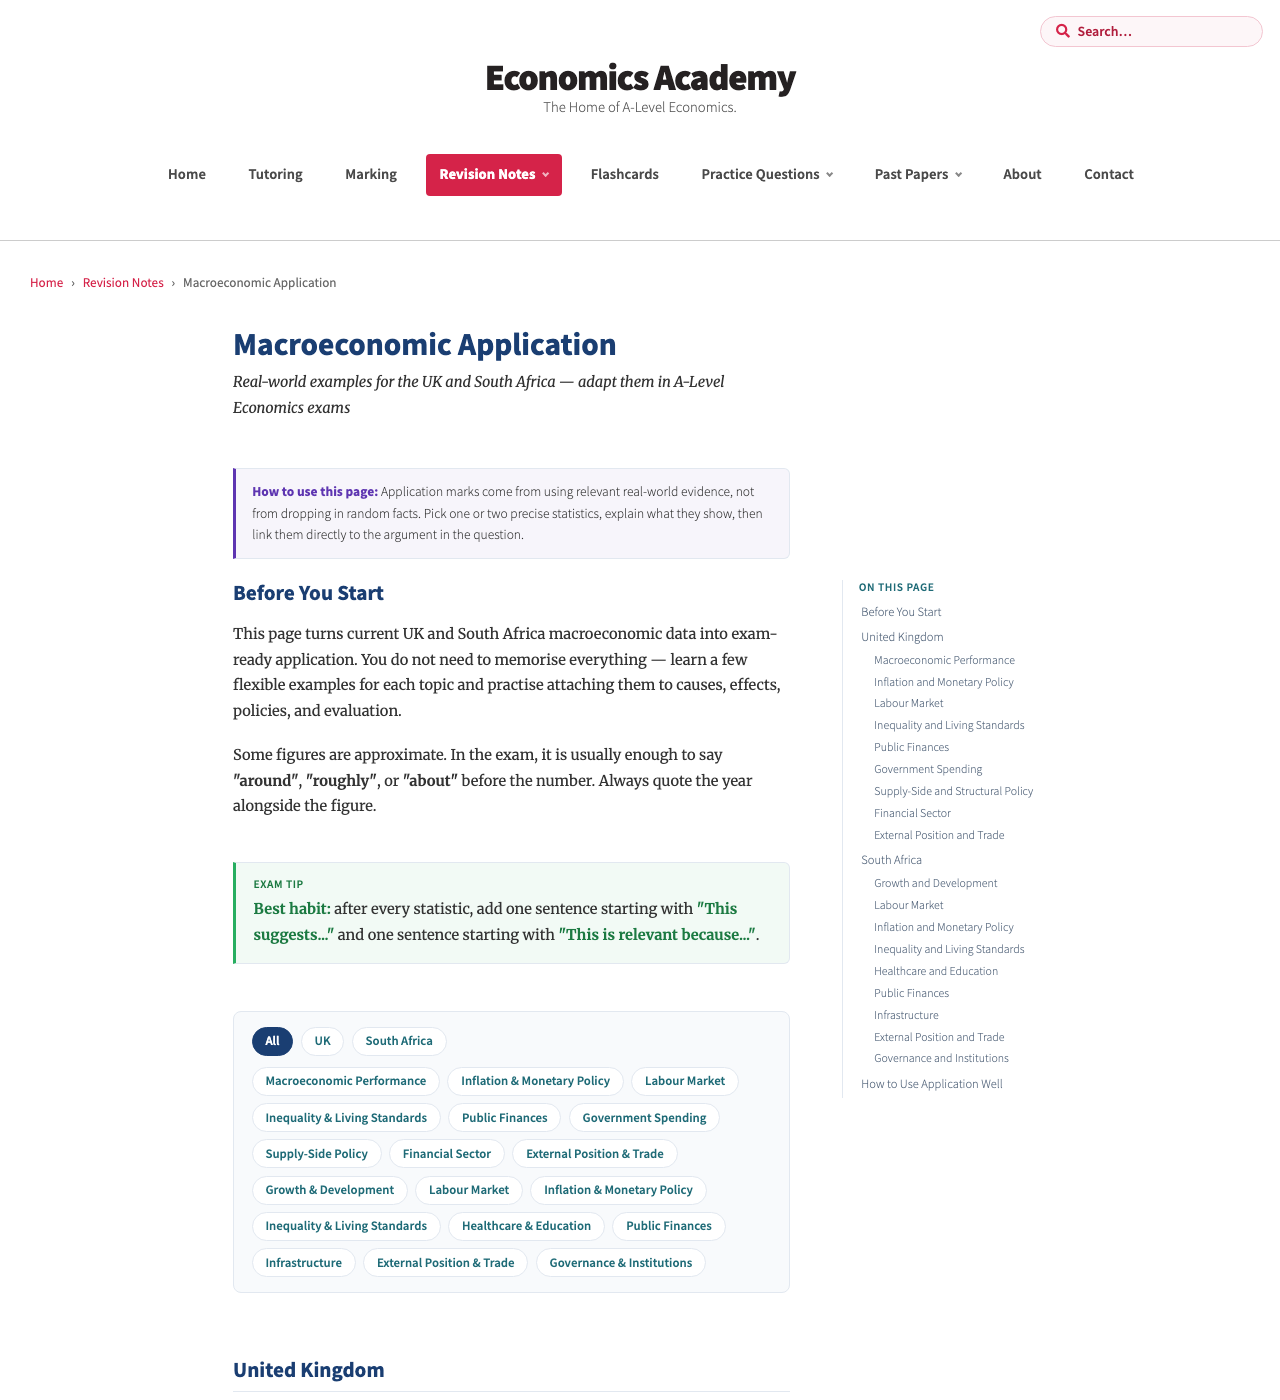
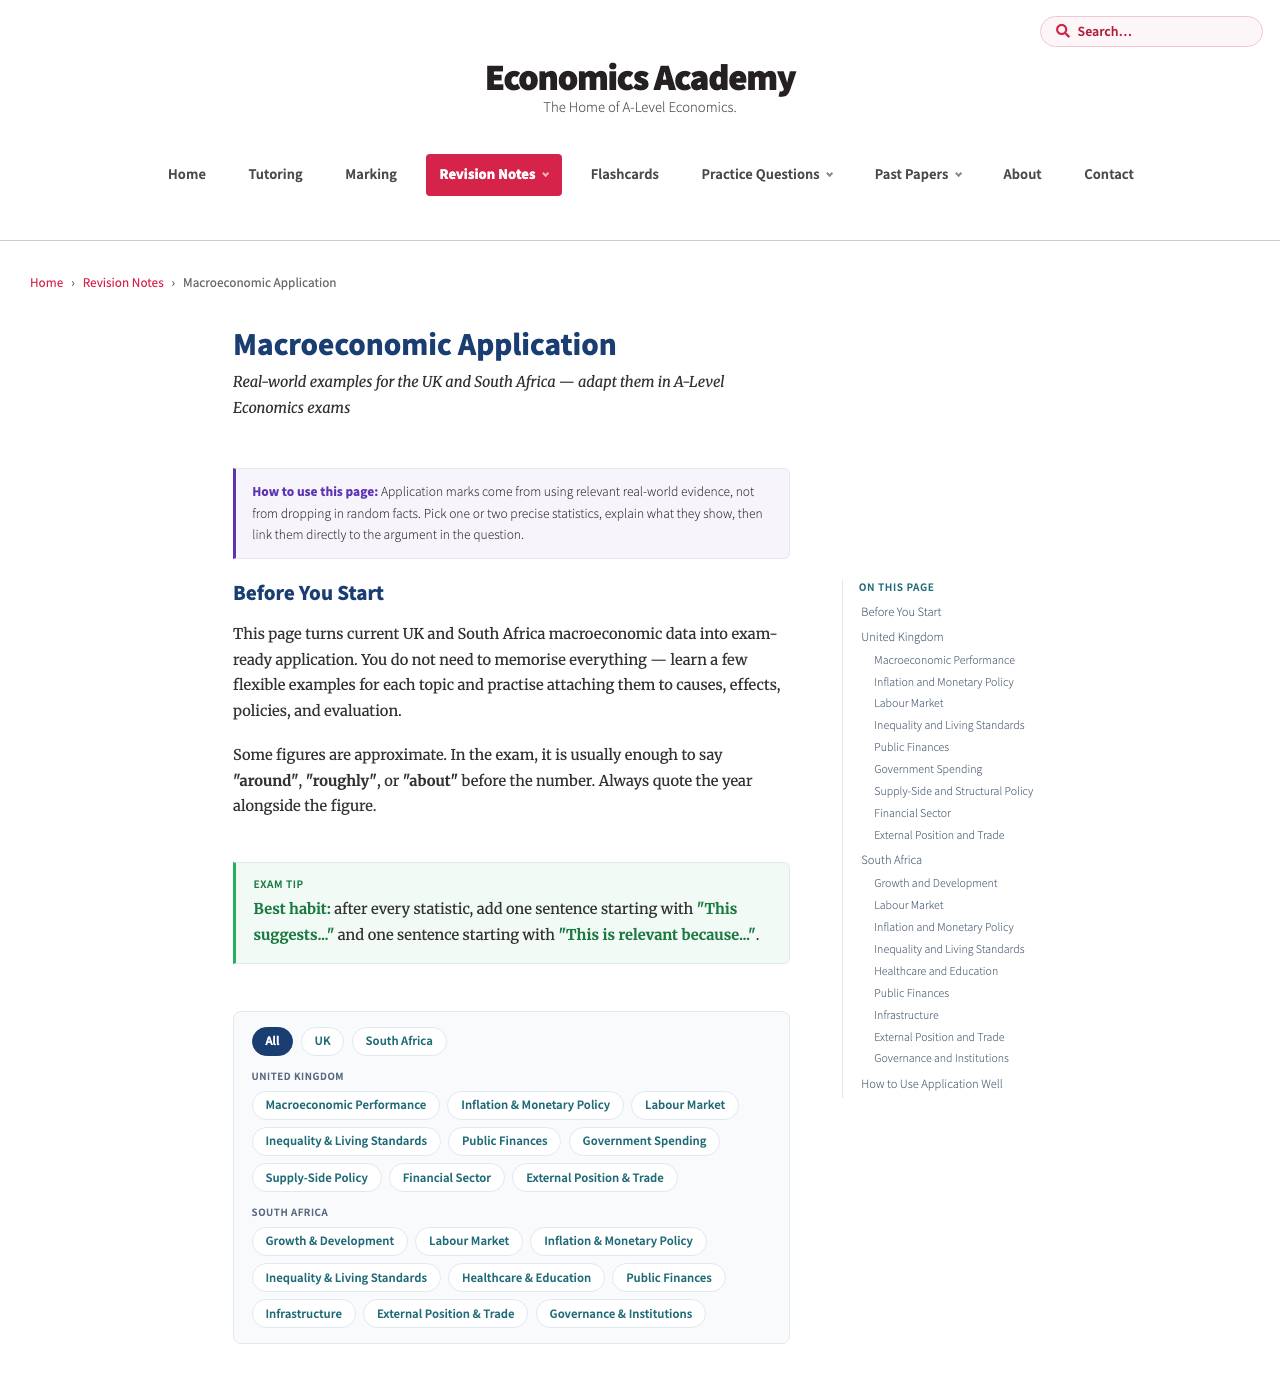
Redesign the macro-application filter bar: every chip visible, groups labelled
Eliot's Gate 1 review found the filters unusable - squashed, or not
displayed. The cause was behaviour inherited from the retired inline
script: with JavaScript on, all 18 topic chips were hidden until a
country was picked, leaving a near-empty bar that read as broken, and
chips were shown and hidden one by one, so a half-applied state or a
squeezed flex item could render chips illegibly.

The bar now shows every chip all the time, in two labelled groups - a
small-caps "United Kingdom" and "South Africa" label over each
country's nine topic pills. Picking a country hides only the other
country's whole labelled group (never a single chip, so no half-state
can exist); picking a topic selects its own country; All restores
everything. The pills carry white-space: nowrap, so a chip wraps to
the next row whole but can never be squeezed or break mid-label. The
JS-on "All" view and the no-JS view are now the same bar, and the
chips stay the real jump links they became in f95f1132.

The evidence pack's macro-application captures are refreshed and three
interactive-state captures added (UK picked, topic picked, South
Africa at 360). The capture harness now uses Chrome's --timeout (real
clock) instead of --virtual-time-budget, which painted one committed
shot at a fraction of its measured geometry and freezes colour
transitions at their FROM value - the same class of headless lie the
audit's render_nav.py records.

The two group labels are the only visible text this adds; the fact
[…]

Changed region(s): [[0.1875, 0.7679, 0.5625, 1.0]]

diff --git a/js/components/notes.js b/js/components/notes.js
@@ -187,8 +187,11 @@
   }
 
   /* Fact-bank filters - macro-application only. The chips are baked links
-     that jump to their sections with JS off; here they become show/hide
-     filters, the behaviour the page has always had with JS on. */
+     that jump to their sections with JS off; here they become filters. All
+     chips stay visible at "All"; picking a country hides the OTHER
+     country's bank and its labelled topic group - whole groups only, never
+     single chips, so the bar cannot render a half-state - and a topic chip
+     picks its own country. */
   var bar = document.getElementById("filter-bar");
   if (bar) {
     var countryChips = Array.prototype.slice.call(
@@ -200,6 +203,10 @@
     var appSections = Array.prototype.slice.call(
       main.querySelectorAll(".application-section")
     );
+    var topicGroups = {
+      uk: document.getElementById("filter-topics-uk"),
+      sa: document.getElementById("filter-topics-sa"),
+    };
     var activeCountry = "all";
     var activeTopic = null;
 
@@ -218,12 +225,29 @@
         s.style.display =
           !activeTopic || s.dataset.topic === activeTopic ? "" : "none";
       });
-      /* Topic chips only make sense within one country's bank. */
+      Object.keys(topicGroups).forEach(function (k) {
+        if (topicGroups[k]) {
+          topicGroups[k].style.display =
+            activeCountry === "all" || activeCountry === k ? "" : "none";
+        }
+      });
+    };
+
+    var setCountry = function (code) {
+      activeCountry = code;
+      countryChips.forEach(function (c) {
+        var on = c.dataset.country === code;
+        c.classList.toggle("is-active", on);
+        c.setAttribute("aria-pressed", on ? "true" : "false");
+      });
+    };
+
+    var setTopic = function (t) {
+      activeTopic = t;
       topicChips.forEach(function (c) {
-        c.style.display =
-          activeCountry !== "all" && c.dataset.forCountry === activeCountry
-            ? ""
-            : "none";
+        var on = t !== null && c.dataset.topic === t;
+        c.classList.toggle("is-active", on);
+        c.setAttribute("aria-pressed", on ? "true" : "false");
       });
     };
 
@@ -235,18 +259,8 @@
       );
       chip.addEventListener("click", function (ev) {
         ev.preventDefault();
-        activeCountry = chip.dataset.country;
-        activeTopic = null;
-        countryChips.forEach(function (c) {
-          c.classList.remove("is-active");
-          c.setAttribute("aria-pressed", "false");
-        });
-        chip.classList.add("is-active");
-        chip.setAttribute("aria-pressed", "true");
-        topicChips.forEach(function (c) {
-          c.classList.remove("is-active");
-          c.setAttribute("aria-pressed", "false");
-        });
+        setCountry(chip.dataset.country);
+        setTopic(null);
         applyFilter();
       });
     });
@@ -256,19 +270,11 @@
       chip.setAttribute("aria-pressed", "false");
       chip.addEventListener("click", function (ev) {
         ev.preventDefault();
-        var t = chip.dataset.topic;
-        if (activeTopic === t) {
-          activeTopic = null;
-          chip.classList.remove("is-active");
-          chip.setAttribute("aria-pressed", "false");
+        if (activeTopic === chip.dataset.topic) {
+          setTopic(null);
         } else {
-          activeTopic = t;
-          topicChips.forEach(function (c) {
-            c.classList.remove("is-active");
-            c.setAttribute("aria-pressed", "false");
-          });
-          chip.classList.add("is-active");
-          chip.setAttribute("aria-pressed", "true");
+          setCountry(chip.dataset.forCountry);
+          setTopic(chip.dataset.topic);
         }
         applyFilter();
       });

diff --git a/revision-notes/macro-application/index.html b/revision-notes/macro-application/index.html
@@ -480,14 +480,19 @@
 
             <!-- Filter bar. Every chip is a real link to its section, so with
                  JavaScript off it navigates; js/components/notes.js upgrades
-                 the chips in place to show/hide filters (D62). -->
+                 the chips in place to filters (D62). With JS on, a country
+                 chip narrows the bank and the topic lists to that country,
+                 and a topic chip picks its own country. Only the two
+                 labelled groups are ever shown or hidden, never single
+                 chips, so the bar can never render a half-state. -->
             <div id="filter-bar">
               <div class="filter-country-group" role="group" aria-label="Filter by country">
                 <a class="filter-country-btn is-active" data-country="all" href="#application-bank">All</a>
                 <a class="filter-country-btn" data-country="uk" href="#uk-section">UK</a>
                 <a class="filter-country-btn" data-country="sa" href="#sa-section">South Africa</a>
               </div>
-              <div class="filter-topic-group" id="filter-topics">
+              <div class="filter-topic-group" id="filter-topics-uk" role="group" aria-label="United Kingdom topics">
+                <span class="filter-topic-group__label">United Kingdom</span>
                 <a class="filter-topic-btn" data-for-country="uk" data-topic="macroeconomic-performance" href="#uk-macroeconomic-performance">Macroeconomic Performance</a>
                 <a class="filter-topic-btn" data-for-country="uk" data-topic="inflation-monetary-policy" href="#uk-inflation-monetary-policy">Inflation &amp; Monetary Policy</a>
                 <a class="filter-topic-btn" data-for-country="uk" data-topic="labour-market" href="#uk-labour-market">Labour Market</a>
@@ -497,6 +502,9 @@
                 <a class="filter-topic-btn" data-for-country="uk" data-topic="supply-side-policy" href="#uk-supply-side-policy">Supply-Side Policy</a>
                 <a class="filter-topic-btn" data-for-country="uk" data-topic="financial-sector" href="#uk-financial-sector">Financial Sector</a>
                 <a class="filter-topic-btn" data-for-country="uk" data-topic="external-trade" href="#uk-external-trade">External Position &amp; Trade</a>
+              </div>
+              <div class="filter-topic-group" id="filter-topics-sa" role="group" aria-label="South Africa topics">
+                <span class="filter-topic-group__label">South Africa</span>
                 <a class="filter-topic-btn" data-for-country="sa" data-topic="sa-growth-development" href="#sa-growth-development">Growth &amp; Development</a>
                 <a class="filter-topic-btn" data-for-country="sa" data-topic="sa-labour-market" href="#sa-labour-market">Labour Market</a>
                 <a class="filter-topic-btn" data-for-country="sa" data-topic="sa-inflation-monetary-policy" href="#sa-inflation-monetary-policy">Inflation &amp; Monetary Policy</a>

diff --git a/notes-data/hubs/macro-application.html b/notes-data/hubs/macro-application.html
@@ -87,14 +87,19 @@
 
             <!-- Filter bar. Every chip is a real link to its section, so with
                  JavaScript off it navigates; js/components/notes.js upgrades
-                 the chips in place to show/hide filters (D62). -->
+                 the chips in place to filters (D62). With JS on, a country
+                 chip narrows the bank and the topic lists to that country,
+                 and a topic chip picks its own country. Only the two
+                 labelled groups are ever shown or hidden, never single
+                 chips, so the bar can never render a half-state. -->
             <div id="filter-bar">
               <div class="filter-country-group" role="group" aria-label="Filter by country">
                 <a class="filter-country-btn is-active" data-country="all" href="#application-bank">All</a>
                 <a class="filter-country-btn" data-country="uk" href="#uk-section">UK</a>
                 <a class="filter-country-btn" data-country="sa" href="#sa-section">South Africa</a>
               </div>
-              <div class="filter-topic-group" id="filter-topics">
+              <div class="filter-topic-group" id="filter-topics-uk" role="group" aria-label="United Kingdom topics">
+                <span class="filter-topic-group__label">United Kingdom</span>
                 <a class="filter-topic-btn" data-for-country="uk" data-topic="macroeconomic-performance" href="#uk-macroeconomic-performance">Macroeconomic Performance</a>
                 <a class="filter-topic-btn" data-for-country="uk" data-topic="inflation-monetary-policy" href="#uk-inflation-monetary-policy">Inflation &amp; Monetary Policy</a>
                 <a class="filter-topic-btn" data-for-country="uk" data-topic="labour-market" href="#uk-labour-market">Labour Market</a>
@@ -104,6 +109,9 @@
                 <a class="filter-topic-btn" data-for-country="uk" data-topic="supply-side-policy" href="#uk-supply-side-policy">Supply-Side Policy</a>
                 <a class="filter-topic-btn" data-for-country="uk" data-topic="financial-sector" href="#uk-financial-sector">Financial Sector</a>
                 <a class="filter-topic-btn" data-for-country="uk" data-topic="external-trade" href="#uk-external-trade">External Position &amp; Trade</a>
+              </div>
+              <div class="filter-topic-group" id="filter-topics-sa" role="group" aria-label="South Africa topics">
+                <span class="filter-topic-group__label">South Africa</span>
                 <a class="filter-topic-btn" data-for-country="sa" data-topic="sa-growth-development" href="#sa-growth-development">Growth &amp; Development</a>
                 <a class="filter-topic-btn" data-for-country="sa" data-topic="sa-labour-market" href="#sa-labour-market">Labour Market</a>
                 <a class="filter-topic-btn" data-for-country="sa" data-topic="sa-inflation-monetary-policy" href="#sa-inflation-monetary-policy">Inflation &amp; Monetary Policy</a>

diff --git a/css/pages/macro-application.css b/css/pages/macro-application.css
@@ -72,13 +72,28 @@
   display: flex;
   flex-wrap: wrap;
   gap: 0.5em;
-  margin-bottom: 0.75em;
 }
 
+/* A labelled topic group per country. Only these two groups are ever shown
+   or hidden by notes.js - never a single chip - so the bar has exactly
+   three states: both groups (All, and the no-JS page), or one. */
 .revision-notes-content .filter-topic-group {
   display: flex;
   flex-wrap: wrap;
+  align-items: center;
   gap: 0.5em;
+  margin-top: 0.9em;
+}
+
+.revision-notes-content .filter-topic-group__label {
+  flex: 0 0 100%;
+  font-family: var(--nt-heading);
+  font-size: 0.75em;
+  font-weight: 600;
+  line-height: 1.3;
+  letter-spacing: 0.05em;
+  text-transform: uppercase;
+  color: var(--nt-muted);
 }
 
 /* The chips. Interactive pills (the mark-as-revised precedent), not the
@@ -94,6 +109,9 @@
   font-size: 0.875em;
   font-weight: 600;
   line-height: 1.4;
+  /* A pill never squashes: the text cannot wrap inside it, and as a flex
+     item it wraps to the next row whole instead of being squeezed. */
+  white-space: nowrap;
   color: #1f6b77;
   text-decoration: none;
   transition:

diff --git a/_working/notes-family-consistency/shoot.py b/_working/notes-family-consistency/shoot.py
@@ -97,21 +97,25 @@ def shot(name, path, width, height, js, out):
     if not js:
         path = nojs_copy(path, name)
     url = f"http://127.0.0.1:{PORT}{path}"
+    # Real clock (--timeout), not --virtual-time-budget: under virtual time
+    # Chrome painted one committed shot with the filter bar at a fraction of
+    # its measured geometry, and freezes colour transitions at their FROM
+    # value - the same class of lie docs/audit's render_nav.py records.
     if width == 360:
         url = wrapper_for(url, height)
         chrome([f"--window-size=600,{height}",
-                f"--screenshot={out}", "--virtual-time-budget=8000", url])
+                f"--screenshot={out}", "--timeout=5000", url])
         crop_center(out, 360)
     else:
         chrome([f"--window-size={width},{height}",
-                f"--screenshot={out}", "--virtual-time-budget=8000", url])
+                f"--screenshot={out}", "--timeout=5000", url])
     print("wrote", pathlib.Path(out).name)
 
 
 def pdf(path, out):
     url = f"http://127.0.0.1:{PORT}{path}"
     chrome([f"--print-to-pdf={out}", "--no-pdf-header-footer",
-            "--virtual-time-budget=8000", url])
+            "--timeout=5000", url])
     print("wrote", pathlib.Path(out).name)
 
 

diff --git a/_working/notes-family-consistency/check_content_identity.py b/_working/notes-family-consistency/check_content_identity.py
@@ -42,6 +42,9 @@ CHROME = [
     # new: the Carry on revising unit and the services sentence (all three)
     re.compile(r'<nav class="topic-next".*?</nav>', re.S),
     re.compile(r'<p class="topic-services">.*?</p>', re.S),
+    # new: the filter bar's two country group labels (macro-application) -
+    # the chips themselves are NOT stripped, so their text is still compared
+    re.compile(r'<span class="filter-topic-group__label">.*?</span>', re.S),
 ]
 
 TAG = re.compile(r"<[^>]+>")

diff --git a/_working/notes-family-consistency/PROPOSAL.md b/_working/notes-family-consistency/PROPOSAL.md
@@ -107,10 +107,25 @@ section, UK/South Africa jump to their country blocks, and All jumps to the
 top of the fact bank (a new `#application-bank` wrapper around the two
 country blocks). Every fact is visible, every control does something. With
 JS, `notes.js` upgrades the chips in place (role="button",
-`aria-pressed`, preventDefault) to exactly the show/hide filtering the old
-inline script gave — which is retired from the record's `afterScripts`, so
-the page has no inline script left ("progressive enhancement via notes.js,
-not a second script").
+`aria-pressed`, preventDefault) to filters — which retires the inline
+script from the record's `afterScripts`, so the page has no inline script
+left ("progressive enhancement via notes.js, not a second script").
+
+**The filter bar itself is redesigned after your Gate 1 review** (the
+"squashed / not displayed" report). The old behaviour — inherited from the
+inline script — hid all 18 topic chips until a country was picked, leaving
+a near-empty bar that read as broken, and showed/hid chips one by one. Now
+every chip is always in the bar, in two labelled groups (a small-caps
+"United Kingdom" and "South Africa" label over each country's nine topics);
+picking a country hides only the *other country's whole labelled group*;
+picking a topic selects its country by itself; All restores everything.
+Single chips are never hidden, so no half-state can render, and
+`white-space: nowrap` on the pills means a chip can wrap to the next row
+whole but never be squeezed or break mid-label. The JS-on "All" view and
+the no-JS view are now the same bar. Evidence:
+`shots/macro-app-1280-filter-uk.png` (UK picked),
+`macro-app-1280-filter-topic.png` (topic picked — country follows),
+`macro-app-360-filter-sa.png` (South Africa at 360).
 
 **Generated component labels are suppressed where a card labels itself.**
 The 50 fact cards carry `class="application"`, so the shared sheet would
